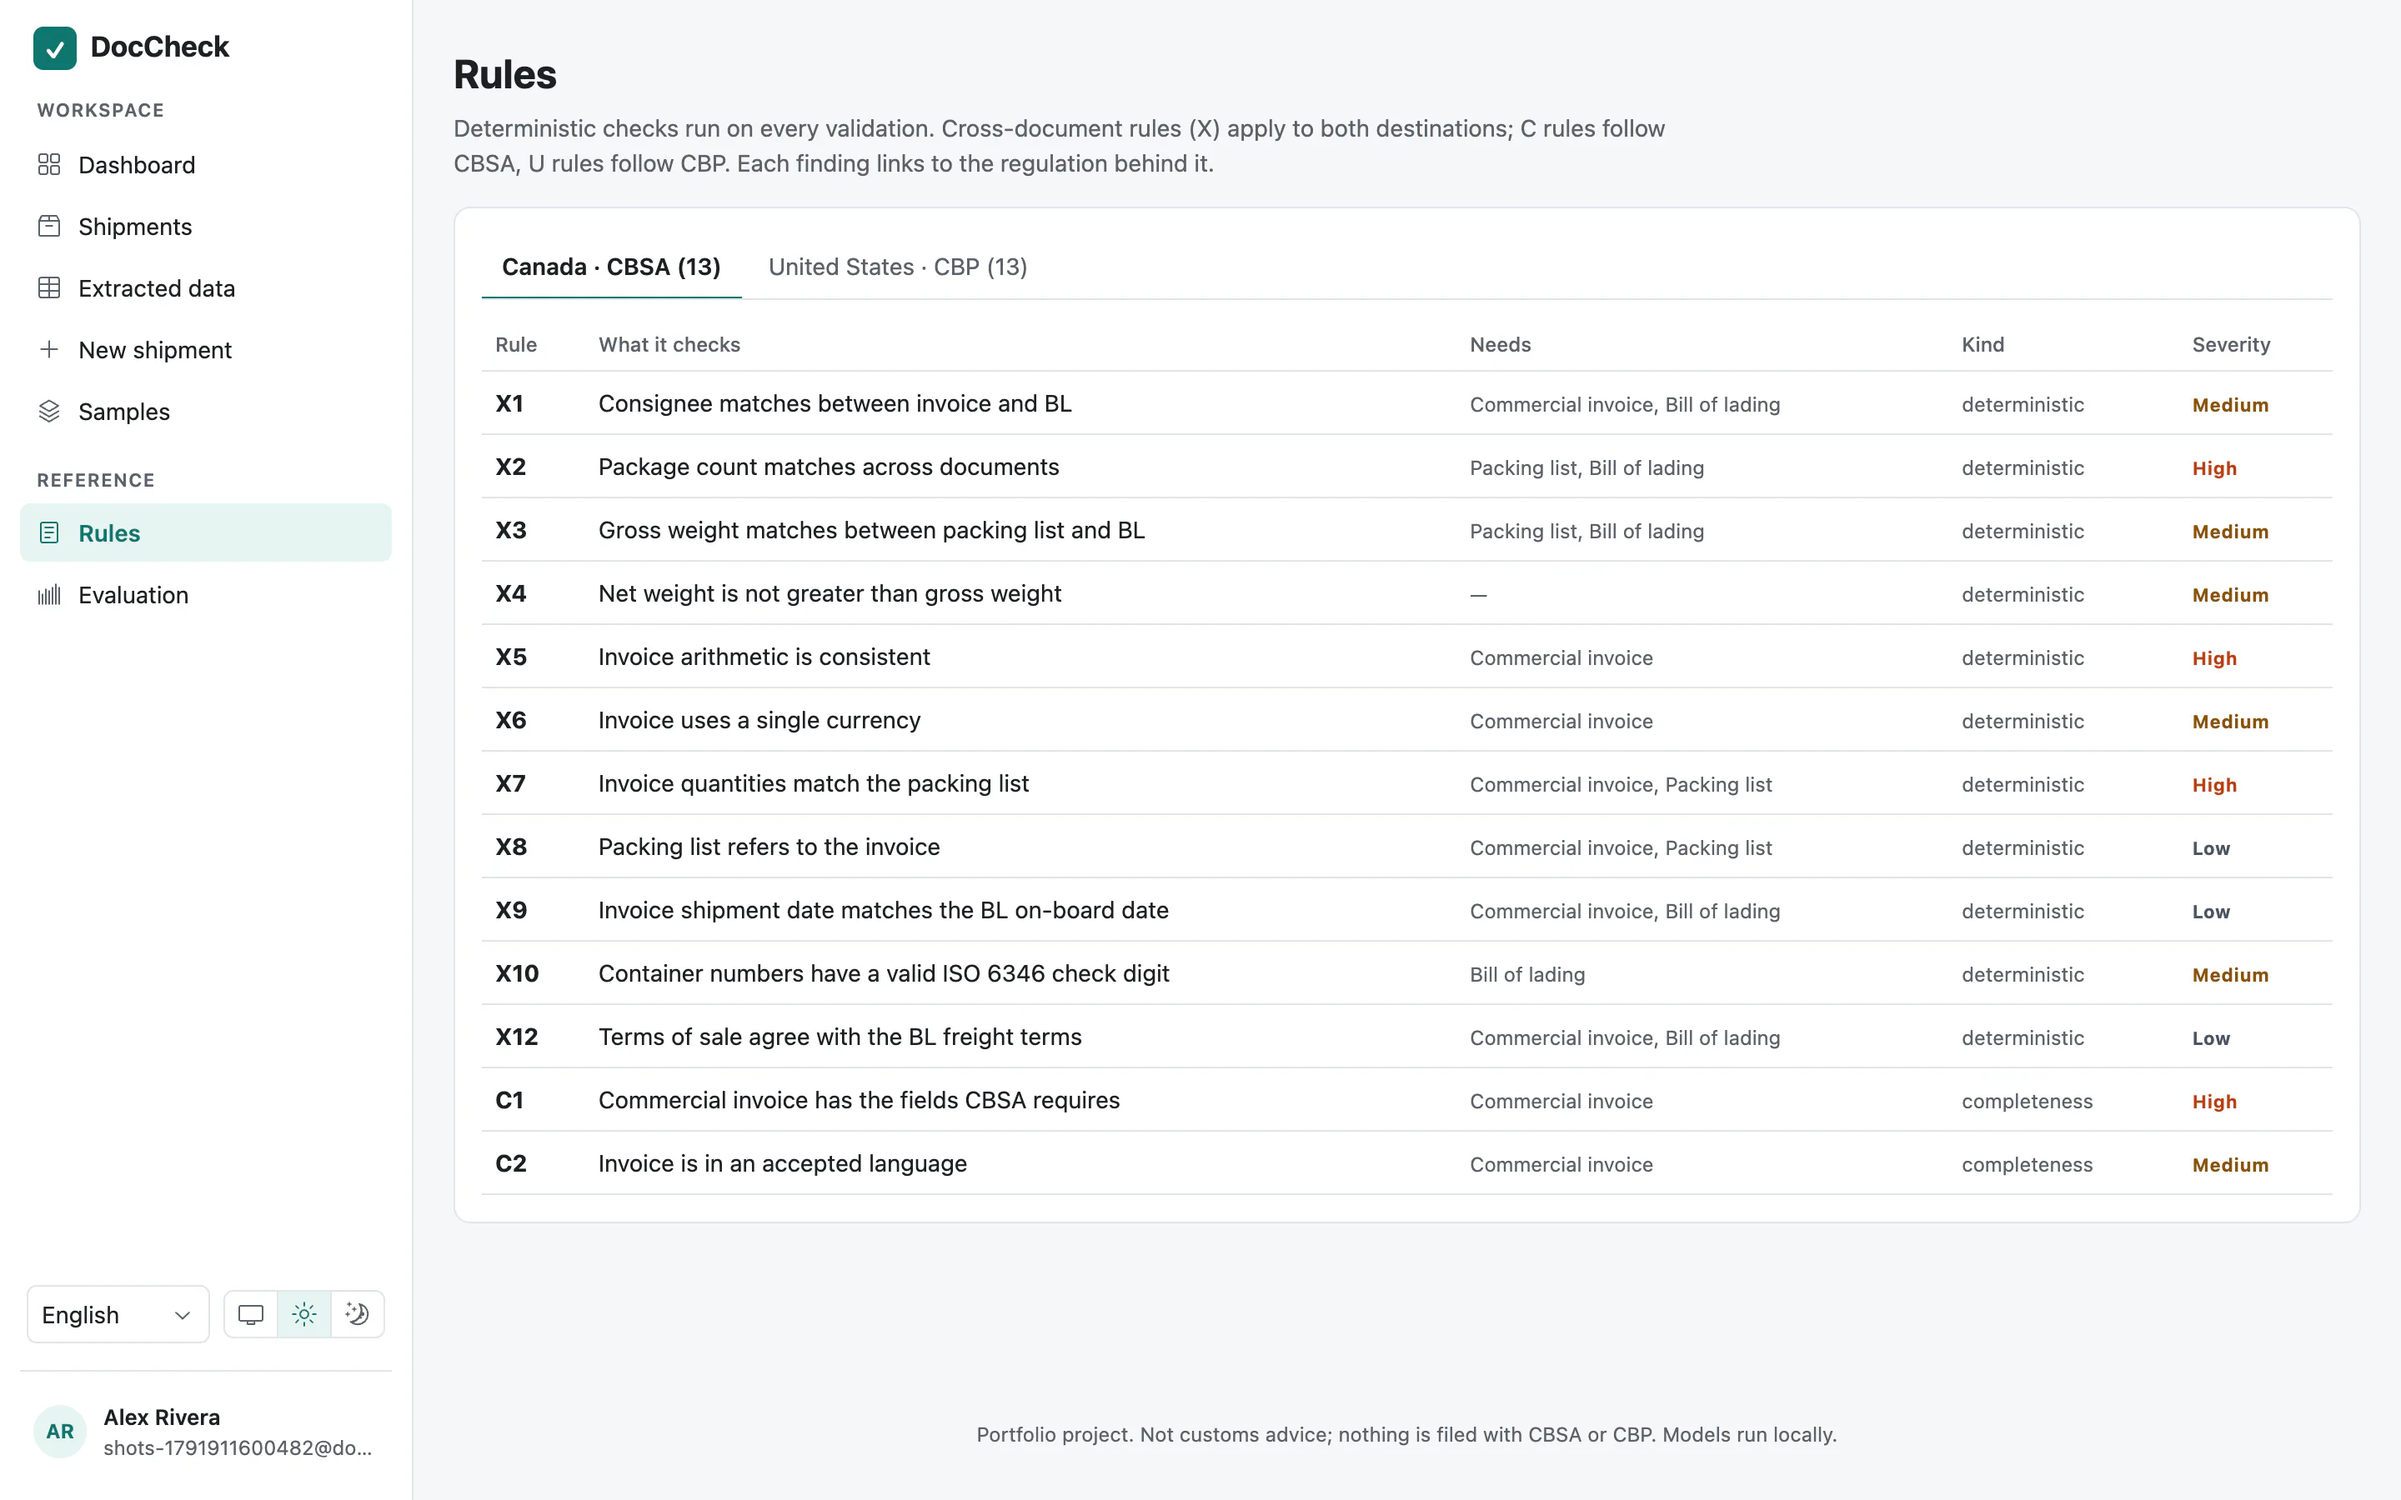
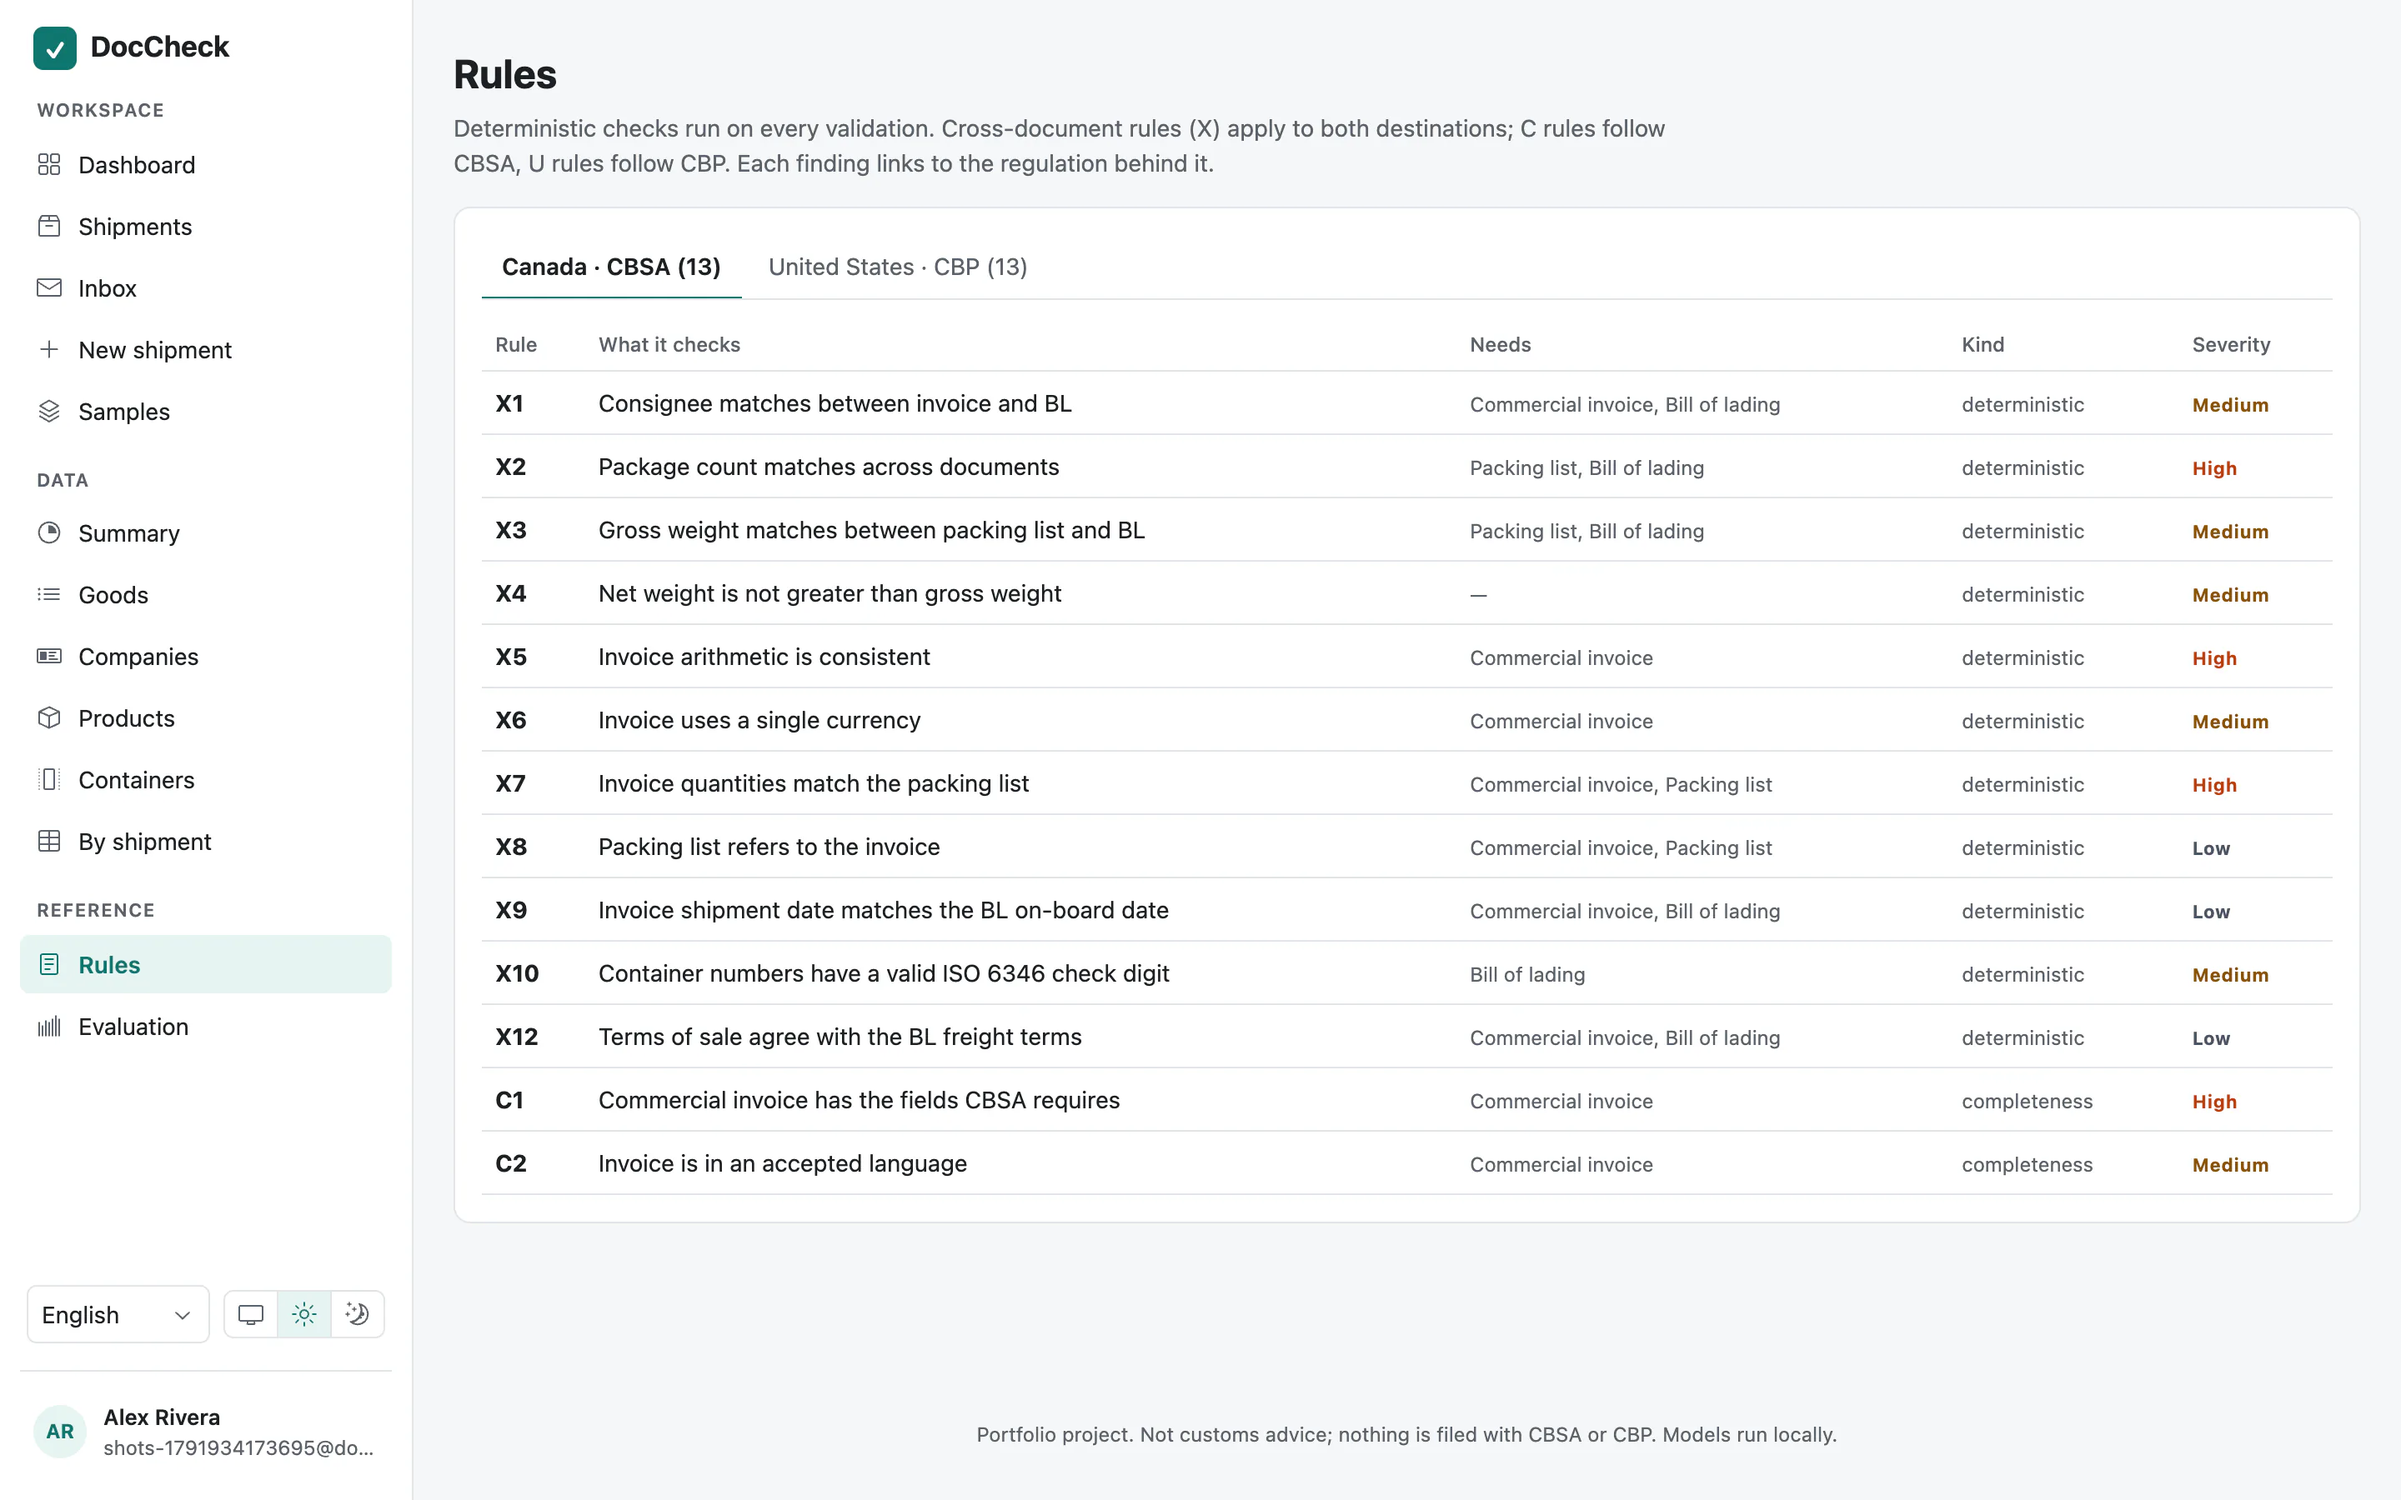
Screenshots: inbox, conversation, correction request, companies, products, containers
The script now asks a sample's supplier for corrections, accepts one finding as a risk and, with
--inbound-secret, delivers the supplier's reply with a corrected PDF through the webhook. Notes
that only a development server without SMTP shows are hidden in the shots.

diff --git a/docs/README-portfolio-draft.md b/docs/README-portfolio-draft.md
@@ -25,6 +25,12 @@ running app.
 | **Dashboard**: shipments that need attention at a glance | **Shipments**, filtered and paged on the server |
 | ![Extracted data: totals across shipments](docs/screenshots/extracted-data-summary.webp) | ![Every invoice line across shipments, with HS code and origin](docs/screenshots/extracted-data-goods.webp) |
 | **Extracted data**: values, weights and origins added up | **Goods**: every invoice line, searchable by description, origin or HS code |
+| ![Asking the supplier for corrected documents, drafted from the findings](docs/screenshots/request-compose.webp) | ![A conversation with the supplier: the request, the reply and its corrected PDF](docs/screenshots/conversation.webp) |
+| **Ask for corrections**: the email is drafted from the findings, in English, Spanish or French, and sent from the app | **Conversation**: the supplier's reply comes back with its PDF, which goes into the shipment in one click |
+| ![Inbox of conversations with suppliers](docs/screenshots/inbox.webp) | ![A company's page: addresses, related companies, products and shipments](docs/screenshots/company.webp) |
+| **Inbox**: unread replies, requests awaiting an answer, overdue and failed ones | **Company**: one record however the documents spell it, with everything they say about it |
+| ![A product's prices over time and per seller](docs/screenshots/product-prices.webp) | ![Every container on the bills of lading](docs/screenshots/containers.webp) |
+| **Product**: price per purchase, per seller and per currency | **Containers**: seal, carrier, vessel and route |
 | ![Rule catalog by destination](docs/screenshots/rules.webp) | ![Evaluation page: field accuracy and per-rule recall and precision](docs/screenshots/evaluation-results.webp) |
 | **Rules**: what is checked for each destination | **Evaluation**: the measured numbers, inside the app |
 | ![Dashboard in dark theme](docs/screenshots/dashboard-dark.webp) | ![Shipment findings in dark theme](docs/screenshots/shipment-findings-dark.webp) |
@@ -36,7 +42,7 @@ running app.
   <img src="docs/screenshots/landing.webp" width="560" alt="Landing page">
 </p>
 
-Also available: [samples page](docs/screenshots/samples.webp). The interface is in English, Spanish and French, with light, dark or system theme, and is audited with axe-core (WCAG 2.1 AA) at phone and desktop widths.
+Also available: [samples page](docs/screenshots/samples.webp), [companies](docs/screenshots/companies.webp), [products](docs/screenshots/products.webp). The interface is in English, Spanish and French, with light, dark or system theme, and is audited with axe-core (WCAG 2.1 AA) at phone and desktop widths.
 
 ## What it does
 
